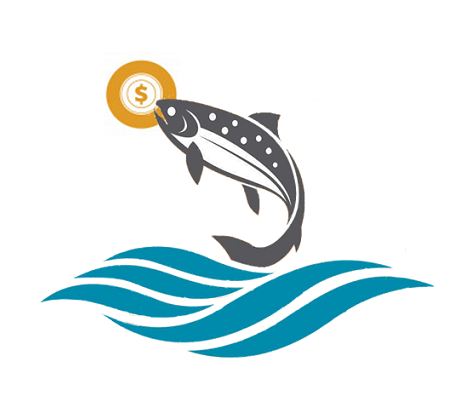
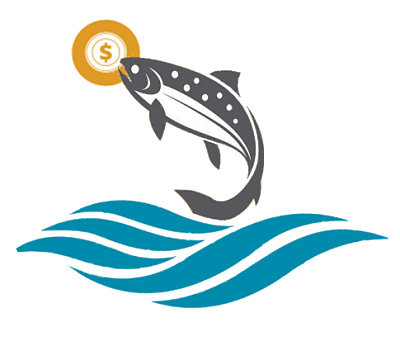
css

Changed region(s): [[0.03, 0.057, 0.99, 0.8832]]

diff --git a/client/src/components/HistoryRecordList.jsx b/client/src/components/HistoryRecordList.jsx
@@ -4,7 +4,7 @@ import {
     ListGroup,
     ListGroupItem
 } from 'reactstrap';
-import {connect} from 'react-redux';
+import { connect } from 'react-redux';
 import HistoryRecordItem from './HistoryRecordItem.jsx';
 import './RecordList.css';
 
@@ -18,18 +18,18 @@ class HistoryRecordList extends React.Component {
     }
 
     render() {
-        const {historyRecords} = this.props;
+        const { historyRecords } = this.props;
 
         let children = (
             <ListGroupItem className='empty d-flex justify-content-center align-items-center'>
                 <div className='empty-text'>No record here.</div>
             </ListGroupItem>
         );
-        
+
         if (historyRecords.length) {
             children = historyRecords.map(p => (
                 <ListGroupItem key={p.record_id} action>
-                    <HistoryRecordItem {...p}/>
+                    <HistoryRecordItem {...p} />
                 </ListGroupItem>
             ));
         }
@@ -44,6 +44,6 @@ class HistoryRecordList extends React.Component {
     }
 }
 
-export default connect(state =>({
-    historyRecords:state.history.historyRecords
+export default connect(state => ({
+    historyRecords: state.history.historyRecords
 }))(HistoryRecordList);

diff --git a/client/src/components/Register.jsx b/client/src/components/Register.jsx
@@ -127,10 +127,20 @@ class Register extends React.Component {
         this.props.dispatch(Change3(text));
     }
     handleSubmit() {
+        if (!this.props.RegisterName)
+            return;
+        if (!this.props.RegisterAccount)
+            return;
+        if (!this.props.RegisterPassword)
+            return;
+        if (!this.props.RegisterPasswordAgain)
+            return;
+
         if (this.props.RegisterPassword != this.props.RegisterPasswordAgain) {
             alert('兩次密碼不一樣');
             return;
         }
+
         this.props.dispatch(register(this.props.RegisterName, this.props.RegisterAccount, this.props.RegisterPassword));
         this.props.dispatch(Clear());
         this.props.history.push('/');

diff --git a/client/src/components/Login.jsx b/client/src/components/Login.jsx
@@ -86,12 +86,11 @@ class Login extends React.Component {
                                         Salmoney
                         </div>
                                     <div className="icon">
-                                        <img src={require('../image/LPICON.jpg')} />
+                                        <img src={require('../image/LPICON.png')} className='image' />
                                     </div>
                                 </Col>
 
                                 <Col>
-
                                     <div className="message">
                                         <Container>
                                             <Row>

diff --git a/client/src/components/Login.css b/client/src/components/Login.css
@@ -4,6 +4,8 @@
 
 .login .content {
 	height: 100%;
+	position: relative;
+	top: 50px;
 }
 
 .login .header {
@@ -43,8 +45,13 @@
 	width: 50%;
 }
 
+.login .image {
+	position: relative;
+	left: 10%;
+}
+
 .login .message {
-	min-height: 100%;
+	height: 100%;
 	top: 5rem;
 	display: flex;
 	align-items: center;

diff --git a/client/dist/styles/salmoney.css b/client/dist/styles/salmoney.css
@@ -4,8 +4,4 @@ body,
     height: 100%;
 }
 
-body {
-    transition: background 0.6s;
-    -webkit-transition: background 0.6s;
-    -moz-transition: background 0.6s;
-}
+body {}

diff --git a/client/src/components/LoginMain.css b/client/src/components/LoginMain.css
@@ -1,3 +1,4 @@
 .LoginMain {
     height: 100%;
+    width: 100%;
 }
